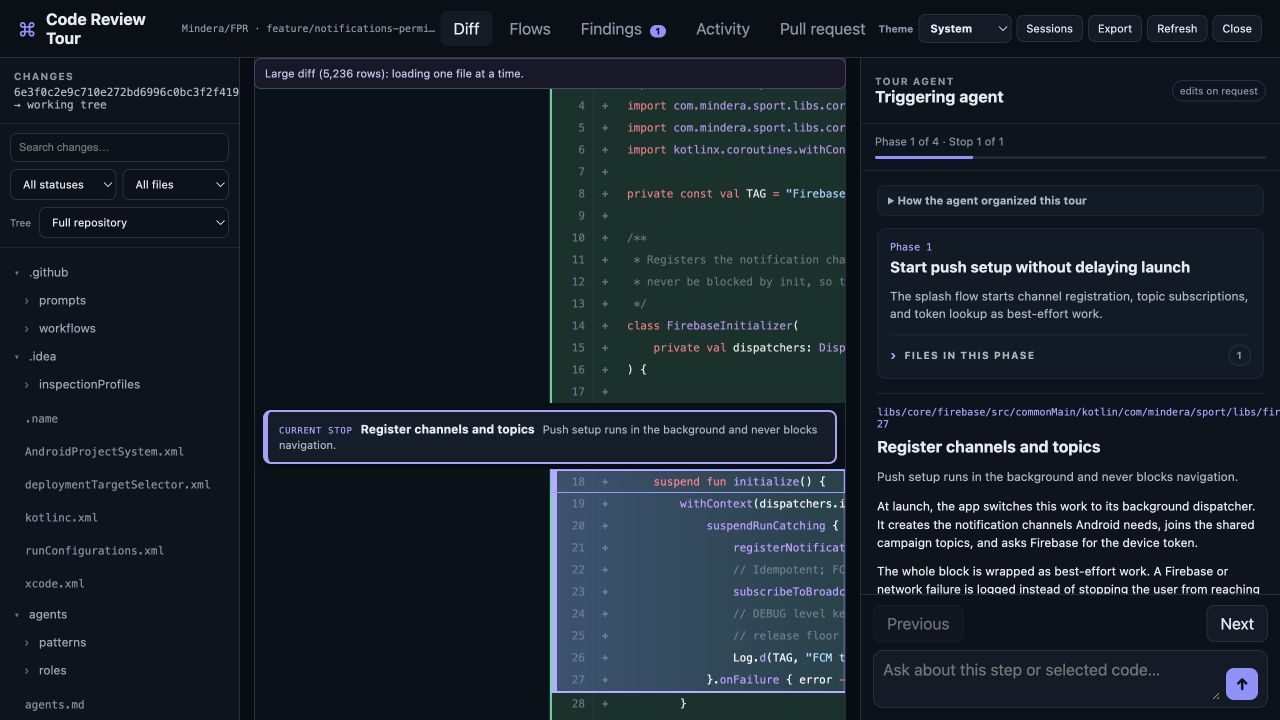
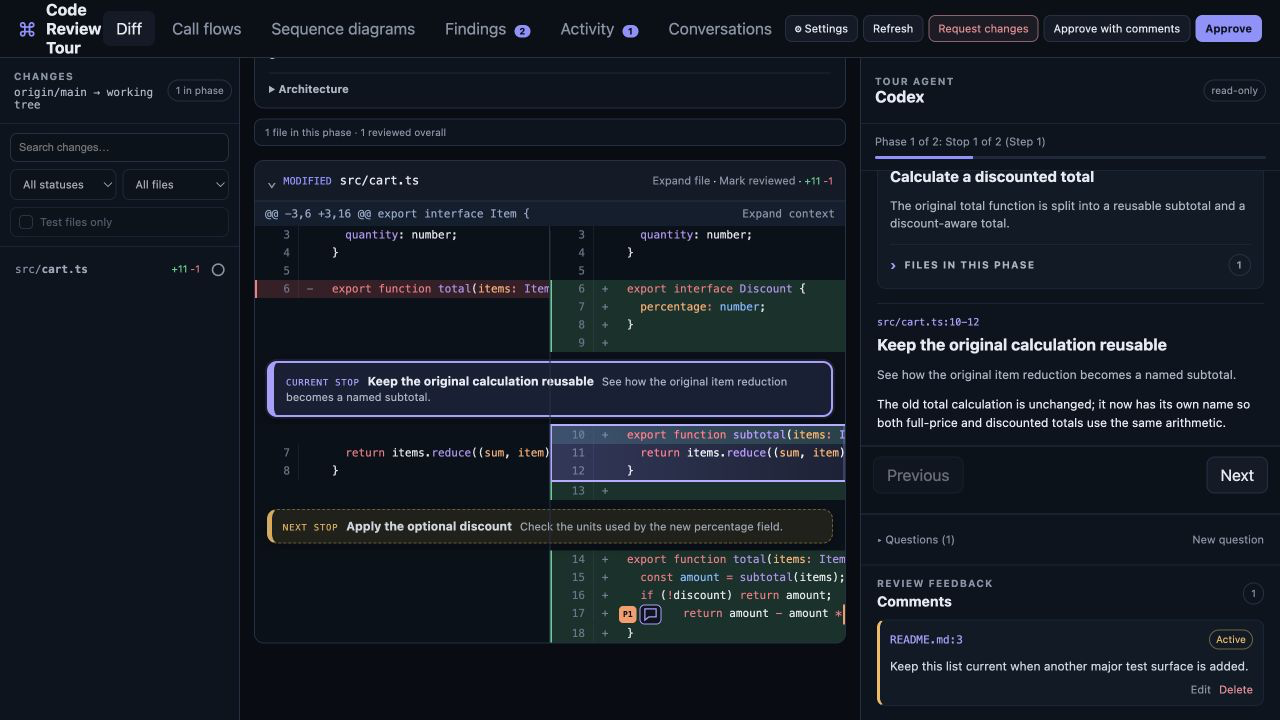
docs: refresh README and review screenshots

diff --git a/README.md b/README.md
@@ -1,8 +1,16 @@
 # Code Review Tour
 
-A local, agent-led walkthrough for Git changes. The browser keeps the repository tree, full diff, ordered tour, call-flow changes, sequence diagrams, findings, review comments, and a resumable agent conversation in one place. The persistent header names the repository and branch being reviewed, so parallel review sessions remain easy to distinguish.
+A local, agent-led walkthrough for Git changes. Review the code, understand the
+reasoning, ask questions on individual lines, and propose edits without leaving
+the browser. Code Review Tour works with local changes or an isolated GitHub
+pull-request checkout; applying a suggestion and publishing a GitHub review are
+explicit actions.
 
-![Code Review Tour showing the repository tree, split diff, repository and branch identity, and tour options](docs/images/overview.png)
+![Code Review Tour with changed files, a split diff, conversations, and explicit review decisions](docs/images/overview.png)
+
+[Install](#install) · [Run](#run) · [Questions](#questions-and-conversations) ·
+[Edits](#comments-and-code-suggestions) · [Media](#images-and-videos) ·
+[Development fixture](#reusable-test-fixture)
 
 Before the tour starts, choose the attached or installed agent, its model and
 reasoning level, and whether this run should include the component map, changed
@@ -18,7 +26,8 @@ During the tour, the active stop is highlighted and summarized directly in the
 diff. The agent pane shows the current phase and a short explanation, while the
 file tree and code remain freely navigable. `Previous` and `Next` return the
 reviewer to the ordered route without locking ordinary browsing. At the final
-stop, `Finish` ends the guided tour and leaves conversations available.
+stop, `Finish tour` ends guided navigation without approving or closing the
+review. Questions remain available, and you can resume the tour later.
 
 ## Features
 
@@ -29,11 +38,11 @@ stop, `Finish` ends the guided tour and leaves conversations available.
 - detects installed Codex, Claude Code, Gemini CLI, and GitHub Copilot CLI agents;
 - lets the reviewer choose an available agent, model, and reasoning effort, plus whether to generate the component map, call-flow changes, sequence diagrams, and findings;
 - asks the selected agent to organize the change into logical phases and precise code stops;
-- preloads the next explanation while the reviewer reads the current stop;
+- prepares up to five upcoming stops by default, configurable from zero to five in Settings;
 - keeps line-anchored conversations in a separate Questions area and Conversations tab, with speech-bubble badges that reopen threads without changing the tour stop;
 - lets reviewers remove selected code context or add up to eight repository files to a question;
 - places a prominent tour annotation immediately before the active code while the agent gives a short, plain-language explanation in a separately scrollable panel;
-- keeps the diff and file navigation reviewer-controlled; only Start, Previous, and Next jump to a tour anchor;
+- keeps diff navigation reviewer-controlled, with a `Current step` shortcut when you scroll away from the active stop;
 - declares each phase's changed files and their role in a collapsed-on-entry section, with Git-derived additions and deletions;
 - separates stop-scoped and phase-scoped P0–P3 findings, with collapsed phase summaries matching the in-code pin tooltips, selected-finding highlighting, back-to-code navigation, and a complete Findings view for global and migrated analysis;
 - syntax-highlights loaded diffs locally in both light and dark themes;
@@ -48,7 +57,8 @@ stop, `Finish` ends the guided tour and leaves conversations available.
 - prepares attached-agent edits in isolated worktrees with explicit Apply, Reject, and conflict-safe Undo controls;
 - persists review state atomically so the server can resume it after restart;
 - provides a session library to reopen, rename, archive, and delete saved tours;
-- follows the system light or dark appearance by default, with a persistent manual override;
+- follows the system light or dark appearance, with independent syntax palettes including GitHub, Vitesse, Review Tour, and three Catppuccin flavors;
+- adapts to narrow screens with a dismissible Files drawer and Tour/Questions pane controls;
 - checks for new releases without interrupting the review and shows an animated, one-click update control only when one is available;
 - renders very large diffs one file at a time in bounded 1,000-row chunks;
 - searches changed paths and code, filters by file or review status, and switches between a flat Git-style changed-path list and the full repository tree;
@@ -56,35 +66,34 @@ stop, `Finish` ends the guided tour and leaves conversations available.
 - opens GitHub pull requests in isolated worktrees, shows their collapsible description above the diff plus metadata, checks, commits, and review threads, and publishes an explicitly confirmed review;
 - exposes explicit `Approve`, `Approve with comments`, and `Request changes` decisions, with a review note for the latter two.
 
-All standalone agent sessions are read-only. In attached mode, the triggering agent—or its local fallback after a lost heartbeat—may edit only when the reviewer explicitly requests a concrete change. Those edits are prepared in an isolated proposal worktree: the reviewed working tree remains untouched until the reviewer presses `Apply`.
+Standalone **agents** are read-only; reviewers can still create inline edit
+suggestions. In attached mode, the triggering agent—or its local fallback after
+a lost heartbeat—may edit only when the reviewer explicitly requests a concrete
+change. Suggestions are prepared in isolated worktrees: the reviewed working
+tree remains untouched until the reviewer presses `Apply`. Applying a suggestion
+does not commit or push code.
 
 ## Attached-agent mode
 
-An agent can launch the page and remain its conversation backend:
+Ask your agent to use the bundled [code-review-tour skill](skills/code-review-tour/SKILL.md).
+It launches the page and serves the authenticated bridge while you review:
 
 ```sh
 code-review-tour --attached --start-tour --open --repo /path/to/repository
 ```
 
-If the change produced visual evidence worth reviewing, add the repeatable
-`--media` option. The files are copied into the persisted session and a Media
-tab appears only when at least one image or video was supplied:
-
-```bash
-code-review-tour --attached --start-tour --open --repo /path/to/repository \
-  --media /tmp/android-home.png \
-  --media /tmp/ios-flow.mp4
-```
-
-PNG, JPEG, GIF, WebP, and MP4 are supported. Imported media never modify the
-reviewed repository and survive session resume.
+The launching agent must keep serving bridge events; running the command alone
+does not provide an attached responder. Start the server so it survives the
+caller's tool timeout and process-group cleanup. The skill documents the
+long-lived watcher, bounded polling alternative, and complete response shapes.
+Add [media evidence](#images-and-videos) with repeatable `--media PATH` arguments.
 
 Agents may optionally identify their current model and effort so the page starts
 with matching attached-session metadata:
 
 ```sh
 code-review-tour --attached --start-tour --open --repo /path/to/repository \
-  --caller-model gpt-5.6-codex \
+  --caller-model YOUR_CURRENT_MODEL \
   --caller-reasoning high
 ```
 
@@ -117,7 +126,8 @@ work. Attached-agent skills coordinate independent workers when the host support
 them; every response is committed against its own bridge event. Browser and
 bridge capability tokens are separate, browser mutations require same-origin
 requests, and the bridge token is passed through an owner-only temporary file.
-Closing with feedback emits the collected line comments back to that same agent. The
+Closing the review sends its decision, overall note, and collected line comments
+back to that same agent. The
 bundled skill at `skills/code-review-tour` contains the complete polling and
 response workflow; Codex, Claude, Gemini, and Copilot adapters remain available as standalone
 fallbacks in the picker.
@@ -182,9 +192,9 @@ Installed releases manage their own lifecycle:
 
 ```sh
 code-review-tour update
-code-review-tour update --version v1.0.0
+code-review-tour update --version v1.1.3
 code-review-tour rollback
-code-review-tour rollback --to 0.8.0
+code-review-tour rollback --to 1.1.2
 code-review-tour uninstall --dry-run
 code-review-tour uninstall --yes
 code-review-tour uninstall --yes --purge
@@ -198,7 +208,7 @@ removes an unmarked skill directory or an unrelated command.
 Pin a particular release by setting the version for the installer process:
 
 ```sh
-gh api -H "Accept: application/vnd.github.raw+json" repos/rcosteira79/code-review-tour/contents/scripts/install.sh | CODE_REVIEW_TOUR_VERSION=v1.0.0 bash
+gh api -H "Accept: application/vnd.github.raw+json" repos/rcosteira79/code-review-tour/contents/scripts/install.sh | CODE_REVIEW_TOUR_VERSION=v1.1.3 bash
 ```
 
 Once the repository is public, this bootstrap can switch from authenticated
@@ -212,9 +222,11 @@ does not require a standalone agent CLI. For development from a checkout, Bun
 is also required.
 
 ```sh
-bun install
-bun run start -- --repo /path/to/repository --base origin/main
+code-review-tour --repo /path/to/repository --base origin/main --open
 ```
+
+From a development checkout, run `bun install --frozen-lockfile`, then
+`bun run src/cli.ts --repo /path/to/repository --base origin/main --open`.
 
 For a development-only command installation, run `bun install --global .` from this checkout.
 This provides `code-review-tour` in Bun's global binary directory (`bun pm bin
@@ -224,7 +236,15 @@ Install or symlink `skills/code-review-tour` into the agent's skill directory
 to make requests such as “start a code review tour” trigger the attached flow
 automatically.
 
-The server binds to `127.0.0.1` on a random port and prints the review URL.
+The server binds only to `127.0.0.1`, chooses an available port from 47550–47599
+(falling back to an OS-assigned port), and prints the tokenized review URL.
+Use `--port PORT` to select one explicitly. Keep the URL private.
+
+For a trusted preview tool that opens only the bare origin, `--preview-redirect`
+redirects `/` to the tokenized `/t` page. Leave this option off otherwise: it
+lets anyone who can reach the server obtain browser access. Responsive layouts
+do not make the loopback server directly accessible from another device.
+
 Codex models and reasoning levels are loaded from the installed App Server's live
 `model/list` catalog. Claude Code has no model-list command, so its adapter uses
 the authenticated CLI default model and exposes the installed command's effort
@@ -258,9 +278,15 @@ later stops invokes the selected local agent and may use tokens.
 
 The fixture contains two phases, four stops, inline feedback, findings, a
 component diagram, a sequence diagram, chat history, and an agent activity
-entry. Sending a new chat message still invokes the installed Codex default
-model. Use `bun run fixture --prepare-only` when a test only needs fresh
+entry, plus a tiny changed PNG for before/after preview checks. Sending a new
+question invokes the selected agent; the fixture does not fake new answers.
+Use `bun run fixture --prepare-only` when a test only needs fresh
 repository and session files.
+
+README screenshots are captured from a separate copy of this fixture. They
+show example review content, not a live production repository.
+
+## GitHub pull requests
 
 To review a GitHub pull request without checking out its branch, authenticate
 GitHub CLI and launch it from a matching repository checkout:
@@ -282,8 +308,14 @@ durable hidden marker makes a retry reuse the remote review instead of submittin
 a duplicate if the first response was interrupted. Remote updates apply only to
 a clean isolated worktree and stale local annotations are marked outdated.
 
+Applying a code suggestion changes only the isolated PR worktree. It does not
+push to the PR branch. Publishing a review sends the selected comments and
+review decision to GitHub, not the proposed code changes.
+
+## Saved sessions
+
 Saved tours can also be managed without handling state-file paths. Open the
-`Sessions` dialog in the browser, or use a session's displayed short ID:
+`Settings → Manage sessions` dialog, or use a session's displayed short ID:
 
 ```sh
 code-review-tour sessions
@@ -297,7 +329,42 @@ code-review-tour sessions prune --repo . --days 30 --max 50
 code-review-tour sessions prune --repo . --days 30 --max 50 --yes
 ```
 
-The `Activity` tab groups repository changes by attached-agent request. It shows
+New state files live under `${XDG_STATE_HOME:-~/.local/state}/code-review-tour/sessions`
+and are written atomically. A standalone server exits after the review is
+closed. An attached server waits until the triggering agent acknowledges the
+terminal outcome.
+
+## Questions and conversations
+
+Select a code line and choose `Ask agent`, or start a `New question` in the
+Questions pane. During a desktop tour, the explanation stays above Questions;
+drag the divider to change their relative height. Exiting or finishing the
+tour gives that space to Questions without closing the review.
+
+Line questions leave a speech-bubble badge next to the code. Click it to reopen
+the thread, even when the same file appears in a later phase. Opening a
+conversation does not rewind the tour. The Conversations tab lists threads
+across all phases. If the captured line has changed, its badge is not attached
+to unrelated code; the conversation remains available in the list.
+
+Before sending a new question, remove its selected line with `×`, or choose
+`+ Add file` to browse and filter the repository tree. You can attach up to
+eight text files, each no larger than 32,000 bytes. A thread retains its original
+file selection and line context after the first message; start a new question
+to use different context. Follow-ups appear after the previous answer.
+
+## Comments and code suggestions
+
+Select a line and choose `Comment` to compose feedback directly beneath the
+code. Comments are separate from questions to the agent. Edit them inline;
+deleting a comment uses an in-page confirmation rather than a browser dialog.
+
+Choose `Edit` on a new-side diff line to enter replacement code. This creates
+a reviewer suggestion, not an immediate working-tree change. The same controls
+are available whether the reviewed code came from an existing branch or was
+just written by an agent.
+
+The `Activity` tab groups repository changes by reviewer edit or attached-agent request. It shows
 the affected files, before/after diff totals, and the verification reported by
 the agent. Select a file to preview the proposed patch, then explicitly `Apply`
 or `Reject` it. Applied bundles can be undone while their captured context
@@ -307,24 +374,90 @@ bundle. A review cannot be accepted or closed with feedback while proposals are
 pending. Manual and background refreshes outside an active attached request are
 not attributed to the agent.
 
-Reviewers can also select `Edit` on a new-side diff line and type a replacement
-directly below the code. The edit becomes an isolated reviewer suggestion in
-the same Activity timeline; it never touches the reviewed tree until `Apply` is
-selected, and it can be rejected or conflict-safe undone like an agent proposal.
-Line comments are composed and edited inline as well, with an in-page deletion
-confirmation instead of a browser dialog.
+Reviewer suggestions do not need an agent to generate the edit. Agent-authored
+suggestions require attached mode or its local fallback. Neither kind commits
+or pushes changes automatically.
 
-New state files live under `${XDG_STATE_HOME:-~/.local/state}/code-review-tour/sessions` and are written atomically. A standalone server exits after the browser closes the review. An attached server waits until the triggering agent acknowledges that it handled the terminal outcome.
+## Completing a review
+
+Finishing the tour and completing the review are separate actions:
+
+| Action | Result |
+| --- | --- |
+| Finish tour | Leaves guided navigation; questions and the review stay open. |
+| Approve | Closes the review as approved, without an overall note. Remove existing inline comments or use Approve with comments. |
+| Approve with comments | Asks for an overall non-blocking note, includes inline comments, and closes as approved. |
+| Request changes | Asks what must change, includes inline comments, and closes with feedback. |
+
+Apply or reject pending suggestions before completing a review. Repository
+policy can also require every changed file to be marked reviewed. In a local
+attached review, the decision goes back to the launching agent. For a GitHub
+PR, an additional confirmation is required before publishing the review.
+After completion, the page attempts to close after a five-second countdown;
+if the browser blocks it, the page remains read-only with manual-close guidance.
 
 ## Navigating the diff
 
 The left panel searches both changed paths and changed code. Combine it with
 file-status and reviewed/unreviewed filters. `Changed paths` shows a flat,
 Git-style list of changed files; `Full repository` restores the hierarchical
-tree and unchanged source navigation. The diff toolbar switches between dense
-side-by-side and unified layouts. Each hunk can progressively load more surrounding
+tree and unchanged source navigation. `Settings → Diff view` switches between
+dense side-by-side and unified layouts. Each hunk can progressively load more surrounding
 context without making the initial session snapshot unbounded. Marking a file
 reviewed is stored with the session and survives server and browser restarts.
+
+Use `Expand context` for more surrounding lines or `Expand file` for the whole
+text file. Expansion and background preparation preserve your reading position.
+When the current tour stop is out of view, `Current step` takes you back to it.
+
+### Appearance and narrow screens
+
+Settings separates the application appearance (`System`, `Light`, or `Dark`)
+from syntax highlighting (`GitHub`, `Vitesse`, `Review Tour`, `Catppuccin Frappé`,
+`Catppuccin Macchiato`, or `Catppuccin Mocha`). It also contains the prepare-ahead
+selector, file-tree mode, exports, and saved sessions. Clicking outside closes
+the settings menu.
+
+On narrow screens, the `Files` button opens the left pane as a dismissible
+drawer. `Tour` and `Questions` controls switch the agent pane's content rather
+than squeezing both into the same small area. PNG Before/After previews stack
+vertically on phone-sized screens. These are responsive browser layouts, not
+a separate mobile app or a remote-access service.
+
+## Images and videos
+
+### PNGs changed in Git
+
+Changed `.png` files render directly inside their diff frames. Modified and
+renamed images show Before/After previews; added or deleted images show the
+available side. Click a preview to open it full-size. The before image comes
+from the comparison baseline and the after image from the reviewed working
+tree. No `--media` argument is required for these previews.
+
+PNG diff previews are limited to 20 MiB per image. They are available in the
+live review, not in exported reports or pending-suggestion previews. Binary
+changes can still be retained and applied as part of a suggestion bundle.
+
+### Evidence supplied by the launching agent
+
+Use repeatable `--media PATH` arguments to include screenshots or recordings
+that demonstrate what the code built:
+
+```sh
+code-review-tour --attached --start-tour --open --repo /path/to/repository \
+  --media /tmp/android-home.png \
+  --media /tmp/ios-flow.mp4
+```
+
+The Media tab appears only when evidence was supplied. Files are copied into
+the persisted session, survive resume, and never modify the reviewed repository.
+Supported imports are PNG, JPEG, GIF, WebP, and MP4: up to 12 files per session,
+15 MiB per image, or 100 MiB per video. Video playback depends on the browser's
+support for the codecs inside the MP4; importing it does not transcode it.
+The old `--screenshot` argument is no longer accepted—use `--media` for both
+images and videos.
+
+## Comparison base
 
 Base resolution order when `--base` is omitted:
 
@@ -376,7 +509,8 @@ Add `.code-review-tour.json` at the repository root to share review defaults:
 ```
 
 `contextLines` accepts 3–200. `closeOutcome` accepts `accepted` or
-`cancelled`; feedback remains an explicit separate action. A resumed session
+`cancelled`. With `cancelled`, the UI shows only `Cancel review` instead of the
+three approval/feedback actions. A resumed session
 retains the settings it started with. For a new session, explicit CLI agent,
 model, reasoning, and base flags override repository defaults, which in turn
 override built-in and Git-inferred defaults. Unknown or mistyped settings fail
@@ -398,6 +532,8 @@ authoritative audit validates their causal chain, removes unsupported guesses,
 and searches high-impact boundaries for omissions. A malformed audit fails the
 tour rather than presenting unvalidated findings.
 
+## Architecture and analysis
+
 The Call flows tab starts with a left-to-right component diagram modeled after ACE's
 implementation-plan architecture view. It uses plain-language component names,
 labels every relationship, and distinguishes new, touched, removed, and
@@ -408,6 +544,10 @@ to compare, while call-site links return to the exact old or new diff line.
 Only added and removed calls with changed-file evidence are accepted; dynamic
 dispatch is labelled partly verified or unverified rather than presented as
 certain.
+
+Component diagrams in the review overview's Architecture section, the tour
+introduction, and the Call flows tab include `Expand` to open a larger viewer,
+with independent pan, zoom, and reset controls.
 
 The Sequence diagrams tab renders the documented Mermaid sequence subset as
 SVG using the locally bundled Mermaid runtime in strict mode; it never loads a CDN. The
@@ -424,8 +564,9 @@ Guided reviews are organized as `Tour → Phases → Stops`. A phase represents 
 coherent behavioral or architectural change and declares the changed files that
 participate in it. A stop is an exact old/new diff anchor with a short inline
 annotation and a deeper agent explanation. Previous and Next traverse the
-flattened stop route across phase boundaries, while the next explanation is
-prepared in advance. While tour mode is active, the file tree and diff show all
+flattened stop route across phase boundaries. `Settings → Prepare ahead` controls
+the next zero to five stops (five by default); already prepared explanations
+remain available when the window is reduced. While tour mode is active, the file tree and diff show all
 and only the changed files declared by the current phase; moving across a phase
 boundary swaps that scope. `Exit tour` restores the baseline all-changes review,
 and `Resume tour` returns to the current stop. Findings shown below a stop are
@@ -433,7 +574,9 @@ limited to that exact anchor, phase findings sit with the phase overview, and
 the Findings tab contains the complete set. Sessions created before v0.9 are
 migrated into a legacy phase without guessing finding scope.
 
-Use the header's Export control at any point—including after closure—to download
+## Exports and retention
+
+Use `Settings → Export` at any point—including after closure—to download
 Markdown or a self-contained HTML artifact. Exports contain no scripts, remote
 assets, session tokens, or repository filesystem paths.
 
